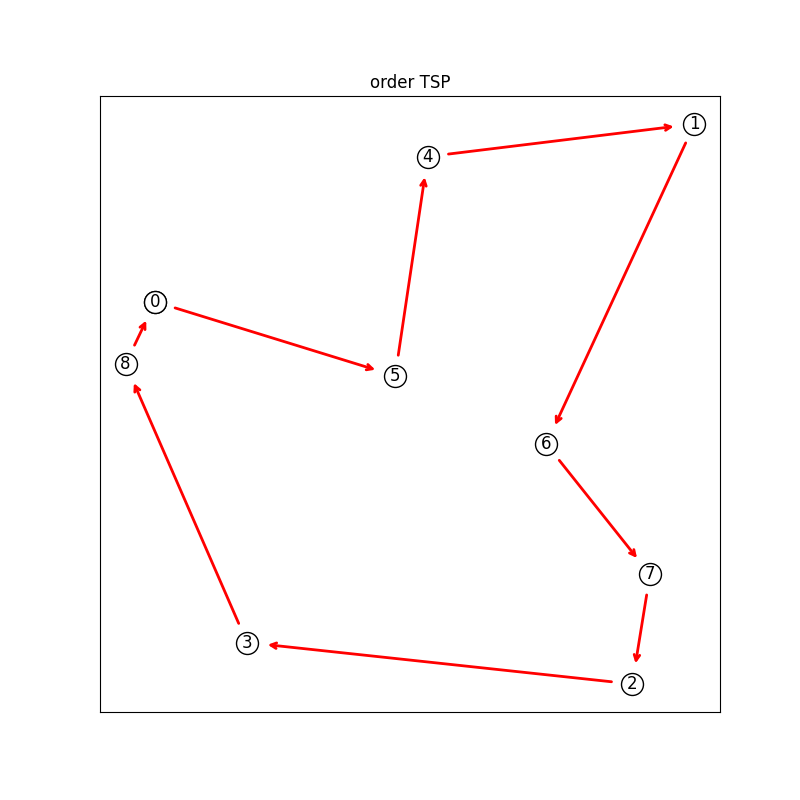
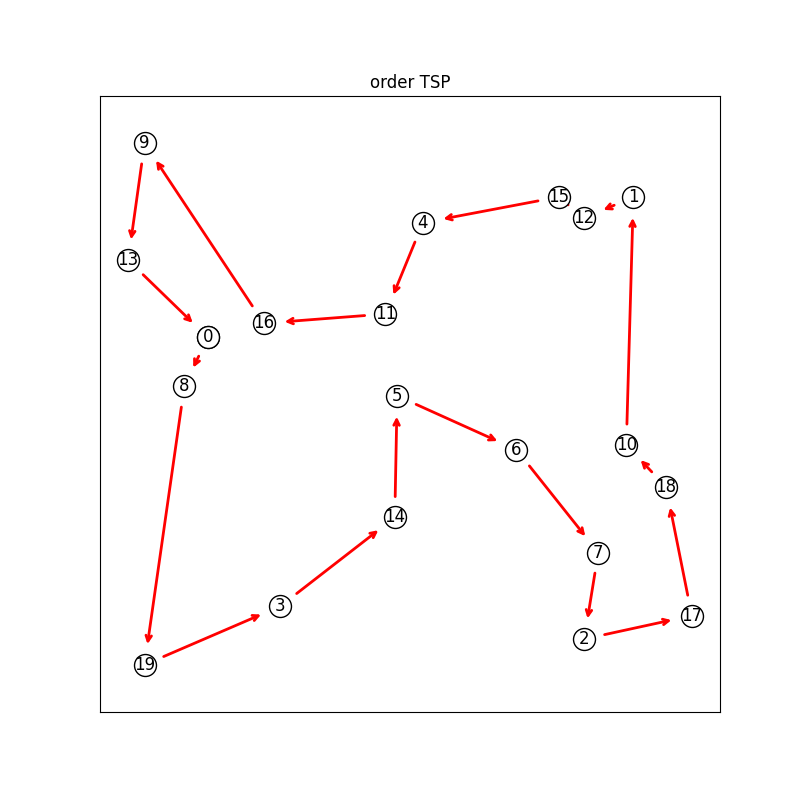
20260619

diff --git a/python/src/plot_tour.py b/python/src/plot_tour.py
@@ -58,7 +58,7 @@ def plot_tour(nodes, tour, filename):
     plt.xticks([])
     plt.yticks([])
 
-    plt.savefig(f"results/tsp_{filename}.png")
+    plt.savefig(f"results/{filename}.png")
     plt.close()
 
 def plot_edges(nodes, edges, filename):
@@ -117,5 +117,5 @@ def plot_edges(nodes, edges, filename):
     plt.xticks([])
     plt.yticks([])
 
-    plt.savefig(f"results/tsp_{filename}.png")
+    plt.savefig(f"results/{filename}.png")
     plt.close()

diff --git a/python/src/nodes.py b/python/src/nodes.py
@@ -1,7 +1,7 @@
 import math
 import random
 
-n = 9
+n = 10
 seed = 1
 random.seed(seed)
 